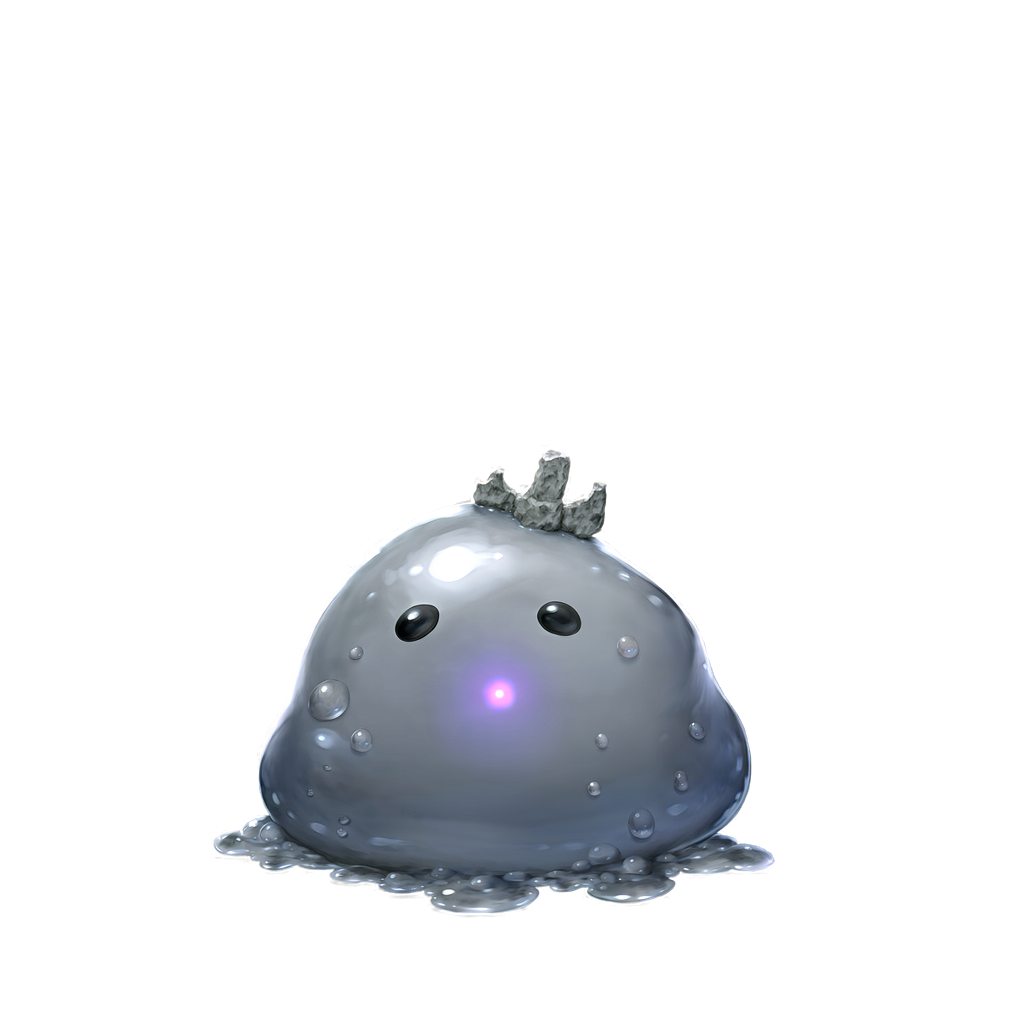
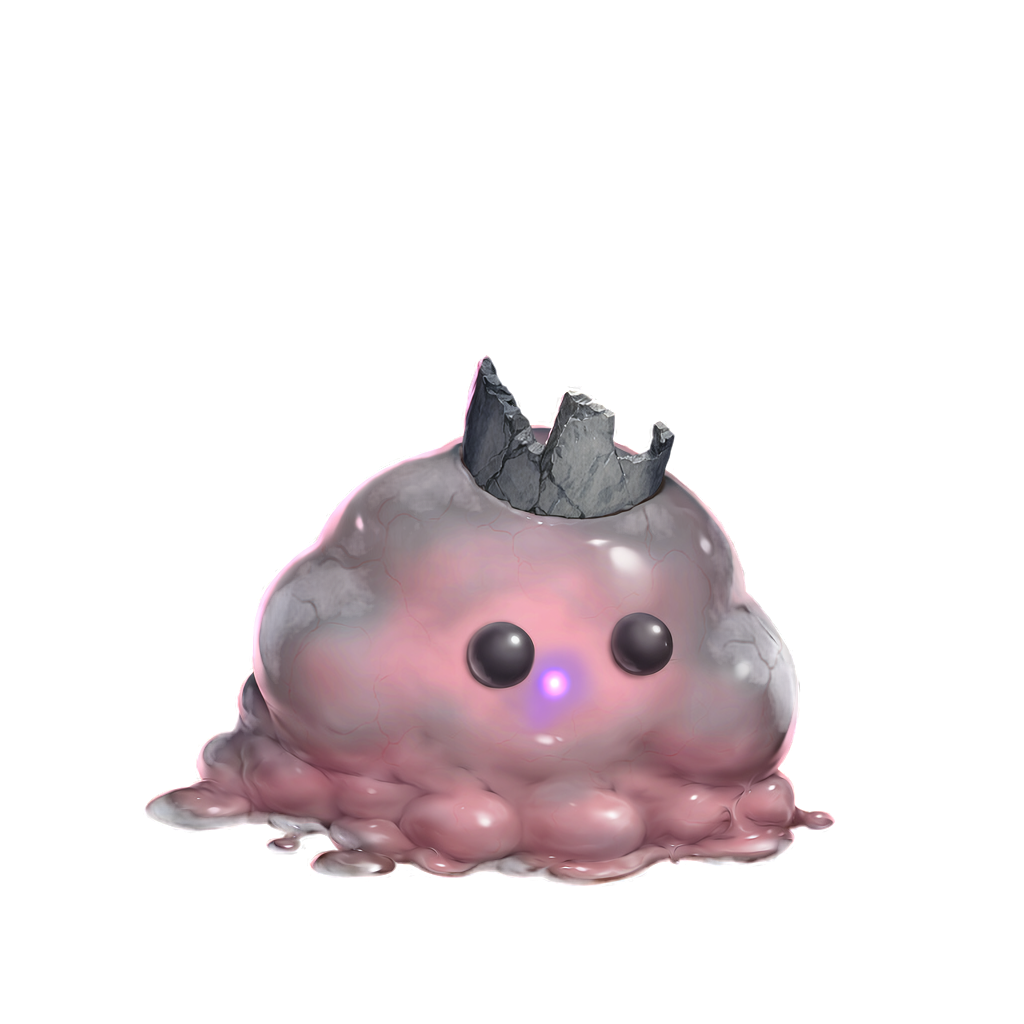
assets final: redraw the 6 monsters in the pink fleshy direction

Changed region(s): [[0.125, 0.3438, 0.8125, 0.9062]]

diff --git a/game/assets/requested/NOTES_FROM_CHATGPT.md b/game/assets/requested/NOTES_FROM_CHATGPT.md
@@ -14,20 +14,22 @@ ChatGPT はここに追記する（日付・追加したファイル・意図）
 ### 作り方の変更（ユーザーの判断）
 - ChatGPT で鏡面スライムを1枚試したが、見本カードの図をなぞっただけの平たい絵になったため不採用。ユーザーの判断で **NovelAI（V5 Full）** に切り替えた。
 - 手順: `asset-refs/png/monster_<名前>.png`（カードではなく絵だけのもの）を i2i の下絵にする（強度 0.76、ノイズ 0）。「透過背景」をオン。英語タグで形・配色を指定し、ゲームで使っている gel / slug / orb / flower の質感に寄せるタグ（semi-realistic, painterly, intricate details, many small specular highlights, dark fantasy bestiary illustration）を足した。
-- ユーザーの指示で「かわいく」は外し、**概念的な艶っぽさ**（濡れたツヤ、糸を引く粘液、柔らかく透ける体、内側のぼんやりした光）を足した。牙・トゲ・血は引き続き除外。
+- ユーザーの指示で「かわいく」は外し、**ピンクで肉っぽい、少しキモい艶っぽさ**に寄せた（半透明の肉色の体、うっすら透ける赤い血管、濡れた粘膜のツヤ、糸を引くピンクの粘液、内側のピンクの光）。牙・トゲ・血・傷は引き続き除外。
+- **配色は見本カードから意図的に変えた（ユーザーの判断）**。「青や灰色が多い」とのことで、各モンスターの形・目・特徴（反射帯、冠、目玉模様、羽、吸盤など）は見本どおりに残し、体の色はピンク〜肉色に寄せた。区画ごとの見分けに色を使っているなら、ゲーム側で確認してほしい。
 - 出力は 1024×1024 のフルカラー RGBA。
 - **加工は1つだけ（ユーザーが許可）**: NovelAI の背景透過が外周にアルファ 1〜2 の見えない画素を残し、検品が必ず FAIL になる。このため、アルファ 2 以下の画素だけを 0 にした。ほかの画素（色・アルファ 3 以上）は届いたまま。
 
 ### 置いたファイル（検品はすべて PASS）
 | ファイル | 内容 |
 | --- | --- |
-| monsters/mirror_slime.png | 銀水色のドーム形スライム。斜めの白い反射帯、目2つ、触角なし。裾で糸を引く |
-| monsters/bubble_shell.png | 右向きの桃色の渦巻き巻貝。泡を4つ吹く。目2つ |
-| monsters/silk_spider.png | 正面向きのふわふわ薄紫の蜘蛛。先が丸い脚8本、大きな目2つ＋小さな目、お尻から糸 |
-| monsters/moth.png | 正面向きの茶紫の蛾。上の羽に目玉模様、ふわふわの体、光る鱗粉 |
-| monsters/crown_attendant.png | 小さな灰色のスライム。頭に石の冠のかけら（ギザギザ3つ）、体の中に紫の光、目2つ |
-| monsters/leech.png | 青白く光る丸い体、透ける羽4枚、顔の下の丸い吸盤。壊れていた旧ファイルを置き換え |
+| monsters/mirror_slime.png | 肉色のピンクの半透明ドーム形スライム。銀の斜めの反射帯、目2つ、触角なし。裾にぶよぶよした肉の粒 |
+| monsters/bubble_shell.png | 右向きのピンクの渦巻き巻貝。殻から出た肉色の体、目は柄の先に2つ、泡を4つ吹く。裾にピンクの粘液 |
+| monsters/silk_spider.png | 正面向きのふわふわのピンクの蜘蛛。血管が透ける、先がピンクの丸い脚8本、大きな目2つ＋小さな目、糸 |
+| monsters/moth.png | 正面向きのくすんだピンクの蛾。上の羽に目玉模様、こぶ状の肉色の胴、ピンクに光る鱗粉 |
+| monsters/crown_attendant.png | 小さな灰色がかったピンクのスライム。頭に灰色の石の冠のかけら（ギザギザ3つ）、体の中に紫の光、目2つ |
+| monsters/leech.png | 肉色の丸い体、透ける羽4枚、顔の下の丸い吸盤からピンクのしずく。壊れていた旧ファイルを置き換え |
 
 - `index.json` の monsters に mirror_slime / bubble_shell / silk_spider / moth / crown_attendant を追加（leech は登録済み）。
 - 飛ばしたもの・緑背景で置いたものはなし。
 - 採用済みの gel / slug / orb / flower（ChatGPT 製）とは描き手が違う。並べて違和感がないかは、ゲーム内で確認してほしい。
+- 同じ日に ChatGPT がリポジトリへ直接、同じ5体の描き直しを push していた（5b0eef8〜7c909e4）。検品すると5枚とも FAIL（4枚は 47〜63 色のパレット PNG、silk_spider はファイル破損）。ユーザーの判断で、こちらの版を採用して上書きした。
